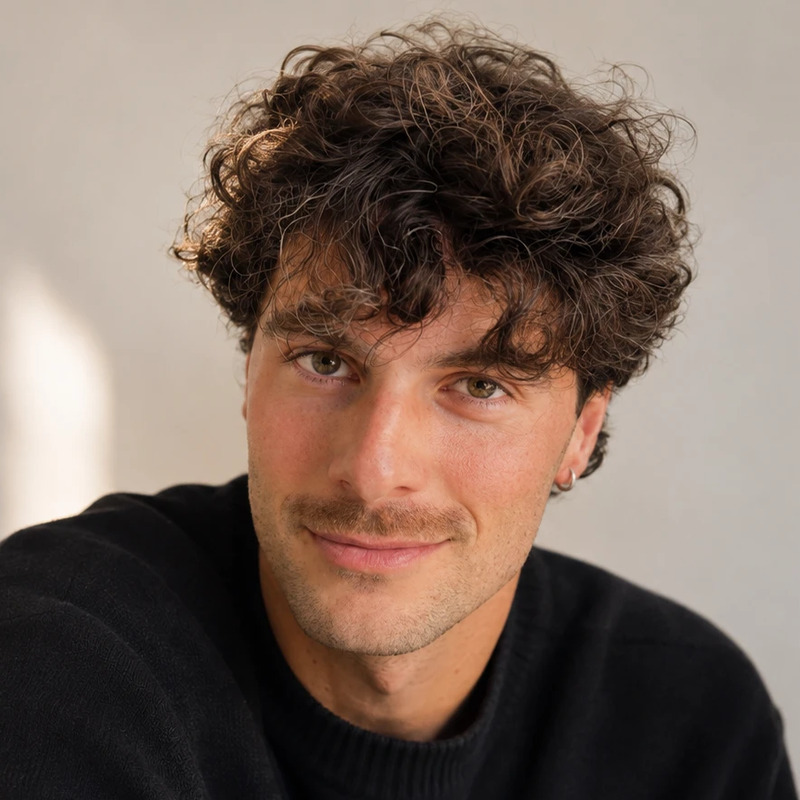
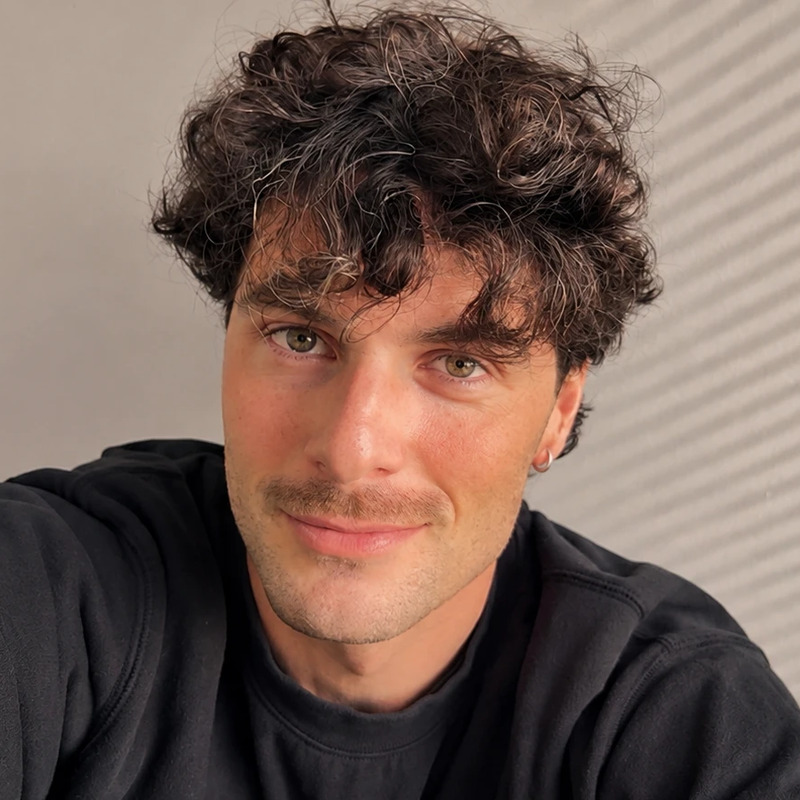
A new photo
The new selfie replaces the studio portrait, colours as they are: cropped
square with all the hair and a bit of shoulder, 400px round and 800px for
link previews, no metadata, with a new version on its links.

diff --git a/index.html b/index.html
@@ -44,7 +44,7 @@
       "jobTitle": "Postdoctoral Research Fellow",
       "description": "Investigates the hidden costs of AI: the electricity, carbon and water of U.S. data centers, the air pollution and health effects of the power plants that run them, and who pays.",
       "url": "https://gianguidi.github.io/",
-      "image": "https://gianguidi.github.io/assets/img/gianluca.jpg?v=4e399f1",
+      "image": "https://gianguidi.github.io/assets/img/gianluca.jpg?v=e81fabf",
       "email": "mailto:ggianluca@hsph.harvard.edu",
       "affiliation": [{"@type": "Organization", "name": "Harvard T.H. Chan School of Public Health"}],
       "colleague": [{"@type": "Person", "name": "Francesca Dominici", "url": "https://scholar.google.com/citations?hl=en&user=RSwElNMAAAAJ"}],
@@ -80,7 +80,7 @@
   <meta name="description" content="Gianluca Guidi, a postdoc at Harvard, investigates the hidden costs of AI: the energy, carbon and water of data centers, their toll on health, and who pays." />
   <meta property="og:title" content="Gianluca Guidi" />
   <meta property="og:description" content="I investigate the hidden costs of AI: the energy, carbon and water of data centers, their toll on health, and who pays." />
-  <meta property="og:image" content="https://gianguidi.github.io/assets/img/gianluca.jpg?v=4e399f1" />
+  <meta property="og:image" content="https://gianguidi.github.io/assets/img/gianluca.jpg?v=e81fabf" />
   <meta property="og:url" content="https://gianguidi.github.io/" />
   <meta name="twitter:card" content="summary" />
   <meta name="color-scheme" content="light" />
@@ -110,7 +110,7 @@
   <main class="page" id="top">
     <header class="intro">
       <button class="avatar" type="button" aria-label="Photo of Gianluca Guidi. Click to say hi">
-        <img src="assets/img/avatar.jpg?v=4e399f1" alt="Gianluca Guidi" width="400" height="400" />
+        <img src="assets/img/avatar.jpg?v=e81fabf" alt="Gianluca Guidi" width="400" height="400" />
       </button>
       <!-- click the photo and it says hi: in your language first, then around the world -->
       <span class="hi" aria-live="polite"></span>
